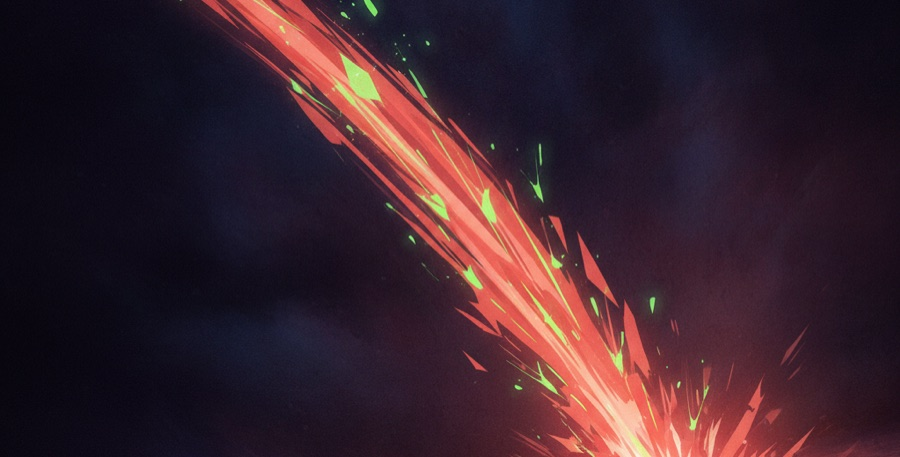
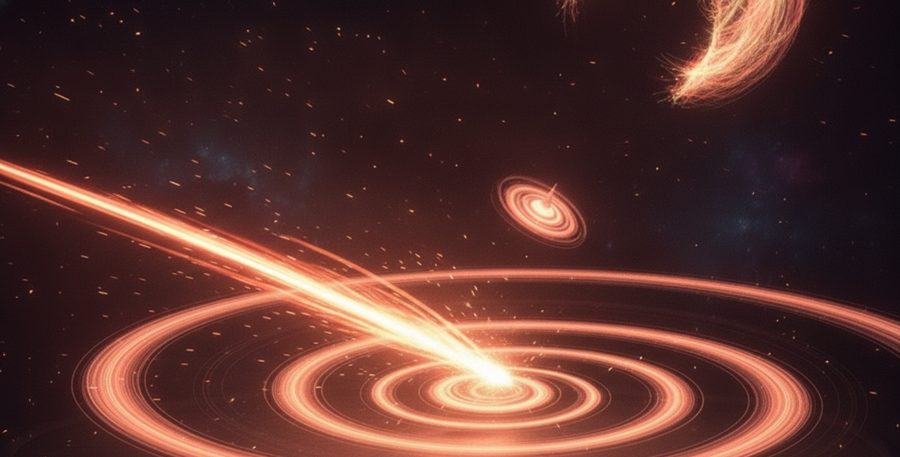
visual+seo: 13 張主視覺重生為 VI v2 橘黑、門市頁擴寫
一、13 張含螢光黃綠的主視覺全部重生（老闆選了「長曝光光跡」路線）
全站盤點量出 12 張品牌插圖仍含已退役的 lime #B6F500，加上 gd-mods.jpg 共 13 張。
原地覆蓋同檔名，所以**一行 HTML 都沒改**，就同時修好 15 個 hero 位、
14 個「繼續讀」卡片二次引用位，以及 beyblade-db／beyblade-calculator／
article-beyblade-evangelion／article-beyblade-grandprix-2026 的 og:image 與 JSON-LD image。

- 風格統一：近黑底 #1A1A1A ＋ 動感橘 #FF5A2D／珊瑚 #FF6A4D 的長曝光光跡，
  沿用站上唯一原本就合規的 assets/news/gd-beginner.jpg 當參考圖。
- 每張題材對應各自頁面（歷史頁＝雙渦對撞、發射教學＝發射瞬間、資料庫＝光環陣列、
  UX-20＝翼狀能量、Roblox＝線框網格、Worlds＝體育場光環…）。
- 尺寸與原檔逐一對齊，檔案反而比舊圖小（合計約 -180KB，對 LCP 有利）。
- 踩雷：模型常忽略指定比例、出成 1:1 並自己加黑邊。已加自動去黑邊再 cover-crop；
  hero-battle 去邊後只剩 374px 高會糊，改用更強硬的比例指令單獨重生。

二、.github/lime_gate.py（新）——配色驗收工具
量 HSV hue 55–110°、飽和>0.35、亮度>0.25 的像素佔比與絕對數。
⚠ 檔內明寫兩件事：(1) 這只是初篩不能取代目檢——白底上的細螢光線經 JPEG 色度
次取樣後會被稀釋成低飽和橄欖綠，統計上完全測不出來（art-ux20 舊圖總佔比才 0.046%，
目檢卻是滿版螢光綠）；(2) 不要拿去掃 news-1~4.jpg，那是自動新聞流程抓的真實新聞照，
綠色是被拍的東西本身，不是配色違規。

根因也一併修掉（在 memory 裡）：生圖規範原本還寫著「青檸 #B6F500」，不改的話下一批
生出來還是綠的。

三、store.html 擴寫 561 → 1235 字（老闆拍板）
這頁扛「中和 娃娃機」地域主力詞卻只有 561 字，被 4896 字的首頁蓋過。
- 新增「店裡長這樣」實拍區：五張真實店照原本只出現在 rental.html，門市主頁一張都沒有。
  alt 與說明沿用已查證版本，統一 4:3 object-fit 排成等寬格。
- 新增「怎麼過來」：捷運中和站旁／連城路口站步行 1 分鐘／全區 24 小時，
  並內連中和景平路順遊指南。
- 新增 6 題 FAQ，鎖地域搜尋問句（中和有 24 小時的娃娃機店嗎、門市怎麼去…），
  另出一份 FAQPage JSON-LD。
- LocalBusiness JSON-LD 補五張實拍進 image、加 hasMap／photo／publicAccess；
  meta description 改寫成含交通與 24H 的版本。
- ⛔ 全程只用已查證事實，沒有捏造機台數量、品牌或獎品內容。

驗證：本機 http-server + Playwright，桌機 1440 與手機 390 兩個斷點——
5 張實拍全部載入、0 張破圖、6 個 FAQ、3 個 JSON-LD 皆可解析、無水平溢出、console 無錯誤；
13 張新圖逐張過 lime gate 並做總覽圖目檢。

diff --git a/store.html b/store.html
@@ -6,7 +6,7 @@
 <meta name="theme-color" content="#1A1A1A">
 <title>Go Shoot 中和門市｜24H娃娃機×戰鬥陀螺×線上一番賞</title>
 <link rel="canonical" href="https://goshoot.com.tw/store.html">
-<meta name="description" content="Go Shoot 中和捷運站旁 2026/8/25 開幕：24 小時無人娃娃機、戰鬥陀螺主題對戰台、線上一番賞。比賽不定時舉辦，手機免下載直接玩。地址新北市中和區景平路593號之1。">
+<meta name="description" content="Go Shoot 中和門市：捷運中和站旁、連城路口公車站步行 1 分鐘，全區 24 小時無人營業。韓系娃娃機、戰鬥陀螺對戰台與線上一番賞，地址新北市中和區景平路 593 號之 1，2026/8/25 開幕。附店內實拍、交通方式與常見問題。">>
 <meta property="og:title" content="Go Shoot 中和門市｜24H娃娃機×戰鬥陀螺×線上一番賞">
 <meta property="og:type" content="website">
 <meta property="og:url" content="https://goshoot.com.tw/store.html">
@@ -20,7 +20,10 @@
 <link rel="preload" as="style" href="https://fonts.googleapis.com/css2?family=Poppins:ital,wght@0,600;0,700;0,800;0,900;1,800;1,900&family=Noto+Sans+TC:wght@500;700;900&display=swap" onload="this.onload=null;this.rel='stylesheet'"><noscript><link rel="stylesheet" href="https://fonts.googleapis.com/css2?family=Poppins:ital,wght@0,600;0,700;0,800;0,900;1,800;1,900&family=Noto+Sans+TC:wght@500;700;900&display=swap"></noscript>
 <link rel="stylesheet" href="style.css">
 <script type="application/ld+json">
-{"@context":"https://schema.org","@type":"LocalBusiness","name":"Go Shoot 中和門市","description":"24 小時無人娃娃機、戰鬥陀螺主題對戰台與線上一番賞，中和捷運站旁 2026 年 8 月 25 日開幕。","url":"https://goshoot.com.tw/store.html","image":"https://goshoot.com.tw/assets/og-cover.png","telephone":"+886976507911","email":"goshoot593@gmail.com","address":{"@type":"PostalAddress","streetAddress":"景平路593號之1","addressLocality":"中和區","addressRegion":"新北市","addressCountry":"TW"},"openingHoursSpecification":[{"@type":"OpeningHoursSpecification","dayOfWeek":["Monday","Tuesday","Wednesday","Thursday","Friday","Saturday","Sunday"],"opens":"00:00","closes":"23:59"}],"makesOffer":[{"@type":"Offer","itemOffered":{"@type":"Service","name":"線上一番賞"}},{"@type":"Offer","itemOffered":{"@type":"Service","name":"戰鬥陀螺對戰台"}},{"@type":"Offer","itemOffered":{"@type":"Service","name":"24小時無人娃娃機"}}]}
+{"@context":"https://schema.org","@type":"LocalBusiness","name":"Go Shoot 中和門市","description":"24 小時無人韓系娃娃機、戰鬥陀螺對戰台與線上一番賞，位於新北市中和區景平路 593 號之 1、捷運中和站旁，2026 年 8 月 25 日開幕。","url":"https://goshoot.com.tw/store.html","image":["https://goshoot.com.tw/assets/og-cover.png","https://goshoot.com.tw/assets/store/shop-front-24h.jpg","https://goshoot.com.tw/assets/store/shop-sign.jpg","https://goshoot.com.tw/assets/store/shop-aisle.jpg","https://goshoot.com.tw/assets/store/shop-machines.jpg","https://goshoot.com.tw/assets/store/shop-lounge.jpg"],"telephone":"+886976507911","email":"goshoot593@gmail.com","address":{"@type":"PostalAddress","streetAddress":"景平路593號之1","addressLocality":"中和區","addressRegion":"新北市","addressCountry":"TW"},"openingHoursSpecification":[{"@type":"OpeningHoursSpecification","dayOfWeek":["Monday","Tuesday","Wednesday","Thursday","Friday","Saturday","Sunday"],"opens":"00:00","closes":"23:59"}],"makesOffer":[{"@type":"Offer","itemOffered":{"@type":"Service","name":"線上一番賞"}},{"@type":"Offer","itemOffered":{"@type":"Service","name":"戰鬥陀螺對戰台"}},{"@type":"Offer","itemOffered":{"@type":"Service","name":"24小時無人娃娃機"}}],"hasMap":"https://www.google.com/maps/search/?api=1&query=新北市中和區景平路593號之1","photo":"https://goshoot.com.tw/assets/store/shop-front-24h.jpg","publicAccess":true,"smokingAllowed":false}
+</script>
+<script type="application/ld+json">
+{"@context":"https://schema.org","@type":"FAQPage","mainEntity":[{"@type":"Question","name":"中和有 24 小時的娃娃機店嗎？","acceptedAnswer":{"@type":"Answer","text":"有。Go Shoot 中和門市位於新北市中和區景平路 593 號之 1、捷運中和站旁，全區 24 小時營業、無人自助，深夜也能進來夾。"}},{"@type":"Question","name":"Go Shoot 中和門市怎麼去？","acceptedAnswer":{"@type":"Answer","text":"捷運中和站旁，或搭公車在連城路口站下車、步行約 1 分鐘。地址新北市中和區景平路 593 號之 1，門口玻璃門上有 24 小時營業窗貼。"}},{"@type":"Question","name":"Go Shoot 中和門市除了娃娃機還有什麼？","acceptedAnswer":{"@type":"Answer","text":"還有戰鬥陀螺對戰台，店內賽事不定時舉辦；以及線上一番賞，手機免下載就能抽、每抽必中獎，中獎的正版商品可宅配到府、到門市自取或折抵店內消費。"}},{"@type":"Question","name":"沒辦法到現場也能玩嗎？","acceptedAnswer":{"@type":"Answer","text":"可以。線上一番賞用手機網頁直接抽，不必下載 App、不受營業時間限制，抽獎亂數公開可驗證，抽中的獎品選宅配就會寄到府上。"}},{"@type":"Question","name":"可以租台位擺自己的機台嗎？","acceptedAnswer":{"@type":"Answer","text":"可以，但名額有限。月租 3,000 元含水電、免押金，機台由店家提供，一人限租一台，詳細條件見台位出租說明。"}},{"@type":"Question","name":"店裡有地方可以坐嗎？","acceptedAnswer":{"@type":"Answer","text":"地下室有休息區，備有座椅與展示櫃，夾累了可以下去坐一下再上來。"}}]}
 </script>
 <script type="application/ld+json">
 {"@context":"https://schema.org","@type":"BreadcrumbList","itemListElement":[{"@type":"ListItem","position":1,"name":"首頁","item":"https://goshoot.com.tw/"},{"@type":"ListItem","position":2,"name":"中和門市","item":"https://goshoot.com.tw/store.html"}]}
@@ -220,6 +223,42 @@ a:focus-visible,button:focus-visible,input:focus-visible,select:focus-visible,te
     </div>
   </section>
 
+
+  <!-- ===== 實拍（2026-08-22 新增：門市主頁原本一張實拍都沒有）===== -->
+  <section class="st-sec" aria-label="門市實拍">
+    <div class="st-wrap">
+      <div style="text-align:center;margin-bottom:clamp(24px,4vh,40px)">
+        <span class="st-eyebrow">Inside the store</span>
+        <h2 class="st-h2">店裡長這樣</h2>
+        <p style="color:rgba(251,246,238,.62);max-width:56ch;margin:12px auto 0;font-size:15.5px;line-height:1.8">
+          裝潢中實拍。整層走韓系選物路線，橘色燈條打底、走道留寬，深夜一個人來也不會覺得壓迫。
+        </p>
+      </div>
+      <div style="display:grid;grid-template-columns:repeat(auto-fit,minmax(260px,1fr));gap:14px">
+        <figure style="margin:0;border-radius:16px;overflow:hidden;background:#232120">
+          <img src="assets/store/shop-front-24h.jpg" alt="Go Shoot 中和門市店面外觀，玻璃門滿版 24 小時營業窗貼" loading="lazy" style="display:block;width:100%;aspect-ratio:4/3;object-fit:cover">
+          <figcaption style="padding:12px 16px 14px;font-size:14px;color:rgba(251,246,238,.72)">店面門口・玻璃門上就是 24 小時營業窗貼</figcaption>
+        </figure>
+        <figure style="margin:0;border-radius:16px;overflow:hidden;background:#232120">
+          <img src="assets/store/shop-aisle.jpg" alt="Go Shoot 中和門市店內娃娃機走道，兩側機台與 GO SHOOT 發光招牌" loading="lazy" style="display:block;width:100%;aspect-ratio:4/3;object-fit:cover">
+          <figcaption style="padding:12px 16px 14px;font-size:14px;color:rgba(251,246,238,.72)">店內走道・兩側機台</figcaption>
+        </figure>
+        <figure style="margin:0;border-radius:16px;overflow:hidden;background:#232120">
+          <img src="assets/store/shop-machines.jpg" alt="Go Shoot 中和門市店內娃娃機排列，橘色燈條天花板" loading="lazy" style="display:block;width:100%;aspect-ratio:4/3;object-fit:cover">
+          <figcaption style="padding:12px 16px 14px;font-size:14px;color:rgba(251,246,238,.72)">機台區・橘色燈條天花板</figcaption>
+        </figure>
+        <figure style="margin:0;border-radius:16px;overflow:hidden;background:#232120">
+          <img src="assets/store/shop-lounge.jpg" alt="Go Shoot 中和門市地下室休息區，座椅與展示櫃" loading="lazy" style="display:block;width:100%;aspect-ratio:4/3;object-fit:cover">
+          <figcaption style="padding:12px 16px 14px;font-size:14px;color:rgba(251,246,238,.72)">地下室休息區・座椅與展示櫃</figcaption>
+        </figure>
+        <figure style="margin:0;border-radius:16px;overflow:hidden;background:#232120">
+          <img src="assets/store/shop-sign.jpg" alt="Go Shoot 中和門市店外發光招牌與騎樓" loading="lazy" style="display:block;width:100%;aspect-ratio:4/3;object-fit:cover">
+          <figcaption style="padding:12px 16px 14px;font-size:14px;color:rgba(251,246,238,.72)">店外發光招牌・騎樓</figcaption>
+        </figure>
+      </div>
+    </div>
+  </section>
+
   <!-- ===== 24H 巨數字 ===== -->
   <section class="st-hours" aria-label="24 小時營業">
     <div class="st-fx" aria-hidden="true">
@@ -257,6 +296,80 @@ a:focus-visible,button:focus-visible,input:focus-visible,select:focus-visible,te
           <p>掃碼進官網</p>
           <small>線上一番賞・攻略・門市資訊</small>
         </div>
+      </div>
+    </div>
+  </section>
+
+
+  <!-- ===== 交通與常見問題（2026-08-22 擴寫：本頁原本僅 561 字，扛不動「中和 娃娃機」地域詞）===== -->
+  <section class="st-sec" aria-label="怎麼過來">
+    <div class="st-wrap">
+      <div style="text-align:center;margin-bottom:clamp(24px,4vh,40px)">
+        <span class="st-eyebrow">How to get here</span>
+        <h2 class="st-h2">怎麼過來</h2>
+      </div>
+      <div style="display:grid;grid-template-columns:repeat(auto-fit,minmax(250px,1fr));gap:14px">
+        <article style="background:#232120;border:1px solid #332F2C;border-radius:16px;padding:22px">
+          <h3 style="margin:0 0 8px;font-size:17px">搭捷運</h3>
+          <p style="margin:0;font-size:15px;line-height:1.85;color:rgba(251,246,238,.78)">
+            <strong style="color:#FBF6EE">捷運中和站旁</strong>。出站沿景平路走，門口玻璃門上有滿版的 24 小時營業窗貼，
+            晚上認發光招牌最快。
+          </p>
+        </article>
+        <article style="background:#232120;border:1px solid #332F2C;border-radius:16px;padding:22px">
+          <h3 style="margin:0 0 8px;font-size:17px">搭公車</h3>
+          <p style="margin:0;font-size:15px;line-height:1.85;color:rgba(251,246,238,.78)">
+            在<strong style="color:#FBF6EE">連城路口站</strong>下車，<strong style="color:#FBF6EE">步行約 1 分鐘</strong>就到。
+            這站是景平路上最近的一站。
+          </p>
+        </article>
+        <article style="background:#232120;border:1px solid #332F2C;border-radius:16px;padding:22px">
+          <h3 style="margin:0 0 8px;font-size:17px">任何時間都能來</h3>
+          <p style="margin:0;font-size:15px;line-height:1.85;color:rgba(251,246,238,.78)">
+            <strong style="color:#FBF6EE">全區 24 小時營業</strong>、無人自助，不必配合店員上下班。
+            下班太晚、假日太擠的時段反而最好逛。
+          </p>
+        </article>
+      </div>
+      <p style="margin:18px 0 0;font-size:15px;line-height:1.85;color:rgba(251,246,238,.78)">
+        地址是<strong style="color:#FBF6EE">新北市中和區景平路 593 號之 1</strong>。順路的話，
+        中和一帶還有興南夜市、烘爐地夜景可以一起排，路線我們整理在
+        <a href="article-zhonghe-jingping-guide.html" style="color:#FF8468;font-weight:700">中和景平路順遊指南</a>。
+      </p>
+    </div>
+  </section>
+
+  <section class="st-sec" aria-label="常見問題">
+    <div class="st-wrap">
+      <div style="text-align:center;margin-bottom:clamp(24px,4vh,40px)">
+        <span class="st-eyebrow">FAQ</span>
+        <h2 class="st-h2">來之前想先問的</h2>
+      </div>
+      <div style="display:flex;flex-direction:column;gap:10px;max-width:760px;margin:0 auto">
+        <details style="background:#232120;border:1px solid #332F2C;border-radius:14px;padding:16px 20px">
+          <summary style="cursor:pointer;font-weight:700;font-size:16px">中和有 24 小時的娃娃機店嗎？</summary>
+          <p style="margin:10px 0 0;font-size:15px;line-height:1.85;color:rgba(251,246,238,.78)">有。Go Shoot 中和門市位於新北市中和區景平路 593 號之 1、捷運中和站旁，全區 24 小時營業、無人自助，深夜也能進來夾。</p>
+        </details>
+        <details style="background:#232120;border:1px solid #332F2C;border-radius:14px;padding:16px 20px">
+          <summary style="cursor:pointer;font-weight:700;font-size:16px">Go Shoot 中和門市怎麼去？</summary>
+          <p style="margin:10px 0 0;font-size:15px;line-height:1.85;color:rgba(251,246,238,.78)">捷運中和站旁，或搭公車在連城路口站下車、步行約 1 分鐘。地址新北市中和區景平路 593 號之 1，門口玻璃門上有 24 小時營業窗貼。</p>
+        </details>
+        <details style="background:#232120;border:1px solid #332F2C;border-radius:14px;padding:16px 20px">
+          <summary style="cursor:pointer;font-weight:700;font-size:16px">除了娃娃機還有什麼？</summary>
+          <p style="margin:10px 0 0;font-size:15px;line-height:1.85;color:rgba(251,246,238,.78)">還有戰鬥陀螺對戰台，店內賽事不定時舉辦；以及線上一番賞，手機免下載就能抽、每抽必中獎，中獎的正版商品可以宅配到府、到門市自取，或折抵店內消費。</p>
+        </details>
+        <details style="background:#232120;border:1px solid #332F2C;border-radius:14px;padding:16px 20px">
+          <summary style="cursor:pointer;font-weight:700;font-size:16px">沒辦法到現場，也能玩嗎？</summary>
+          <p style="margin:10px 0 0;font-size:15px;line-height:1.85;color:rgba(251,246,238,.78)">可以。<a href="https://goshoot-ichiban.vercel.app/draw" target="_blank" rel="noopener" style="color:#FF8468;font-weight:700">線上一番賞</a>手機網頁直接抽，不必下載 App、不受營業時間限制，抽獎過程的亂數公開可驗證。抽中的獎品選宅配就會寄到府上。</p>
+        </details>
+        <details style="background:#232120;border:1px solid #332F2C;border-radius:14px;padding:16px 20px">
+          <summary style="cursor:pointer;font-weight:700;font-size:16px">可以租台位擺自己的機台嗎？</summary>
+          <p style="margin:10px 0 0;font-size:15px;line-height:1.85;color:rgba(251,246,238,.78)">可以，但名額有限。月租 3,000 元含水電、免押金，機台由店家提供，一人限租一台。詳細條件看<a href="rental.html" style="color:#FF8468;font-weight:700">台位出租說明</a>。</p>
+        </details>
+        <details style="background:#232120;border:1px solid #332F2C;border-radius:14px;padding:16px 20px">
+          <summary style="cursor:pointer;font-weight:700;font-size:16px">有地方可以坐嗎？</summary>
+          <p style="margin:10px 0 0;font-size:15px;line-height:1.85;color:rgba(251,246,238,.78)">地下室有休息區，備有座椅與展示櫃，夾累了可以下去坐一下再上來。</p>
+        </details>
       </div>
     </div>
   </section>

diff --git a/.github/lime_gate.py b/.github/lime_gate.py
@@ -1,0 +1,54 @@
+#!/usr/bin/env python3
+# -*- coding: utf-8 -*-
+"""VI v2 配色驗收 gate：圖裡不得出現螢光黃綠（lime，已隨 VI v2 退役）。
+
+判準：HSV hue 55–110°、飽和度 > 0.35、亮度 > 0.25。
+
+⚠ 2026-08-22 踩雷：原本先 thumbnail(300,300) 再統計，結果 art-ux20.jpg 這種
+「細閃電線條全綠」的圖會被縮圖平均掉，量出 0.000% 直接 PASS——但目檢是滿版綠。
+**一律用全解析度統計，並同時看絕對像素數**：細線的佔比天生很低，
+只看百分比會漏判，所以佔比與絕對數任一超標就 FAIL。
+
+⚠ **這支只是初篩，不能取代目檢。** 已知盲點：白／灰底上的細螢光綠線條
+（例 art-ux20.jpg 的閃電）經 JPEG 色度次取樣後，像素會被鄰近白色稀釋成低飽和的
+橄欖綠，統計上完全測不出來，但人眼一看就是滿版螢光綠。
+**流程一律是「gate 初篩 → 人工看圖確認」，不要只信數字。**
+
+**適用範圍＝品牌插圖／主視覺**（`assets/hero-*.jpg`、`assets/news/art-*.jpg`、`gd-*.jpg`、
+`db-hero.jpg`）。⛔ 不要拿去掃 `assets/news/news-1~4.jpg`——那是自動新聞流程從新聞網站抓下來的
+**真實照片**，畫面裡的綠色是被拍的東西本身，不是品牌配色違規。
+
+用法：lime_gate.py <圖檔...>   任一張不合格則 exit 1
+"""
+import colorsys, sys
+from collections import Counter
+from PIL import Image
+
+PCT_MAX = 0.05      # 一般 lime 佔比上限（%）
+ABS_MAX = 400       # 一般 lime 絕對像素數上限
+NEON_MAX = 60       # 「亮而飽和」的螢光綠上限——這種即使只有幾百 px 也會視覺主導
+                    # （art-ux20.jpg 就是白灰底配整圈螢光綠閃電，總佔比才 0.046%）
+
+fail = False
+for path in sys.argv[1:]:
+    im = Image.open(path).convert("RGB")   # 不縮圖
+    px = im.tobytes()
+    total = im.width * im.height
+    hits, neon = Counter(), Counter()
+    for i in range(0, len(px), 3):
+        r, g, b = px[i], px[i+1], px[i+2]
+        if g <= r or g <= b:               # 快篩：綠不是最大分量就跳過
+            continue
+        h, s, v = colorsys.rgb_to_hsv(r/255, g/255, b/255)
+        if 55/360 <= h <= 110/360 and s > 0.35 and v > 0.25:
+            hits[(r, g, b)] += 1
+            if s > 0.45 and v > 0.55:
+                neon[(r, g, b)] += 1
+    n, nn = sum(hits.values()), sum(neon.values())
+    pct = n * 100.0 / total
+    ok = pct < PCT_MAX and n < ABS_MAX and nn < NEON_MAX
+    fail |= not ok
+    sample = ("  最常見 " + " ".join("#%02X%02X%02X" % c for c, _ in hits.most_common(3))) if hits else ""
+    print("%-4s lime %7.4f%%  %6d px（螢光 %5d）  %-22s%s"
+          % ("PASS" if ok else "FAIL", pct, n, nn, path.split('/')[-1], sample))
+sys.exit(1 if fail else 0)
